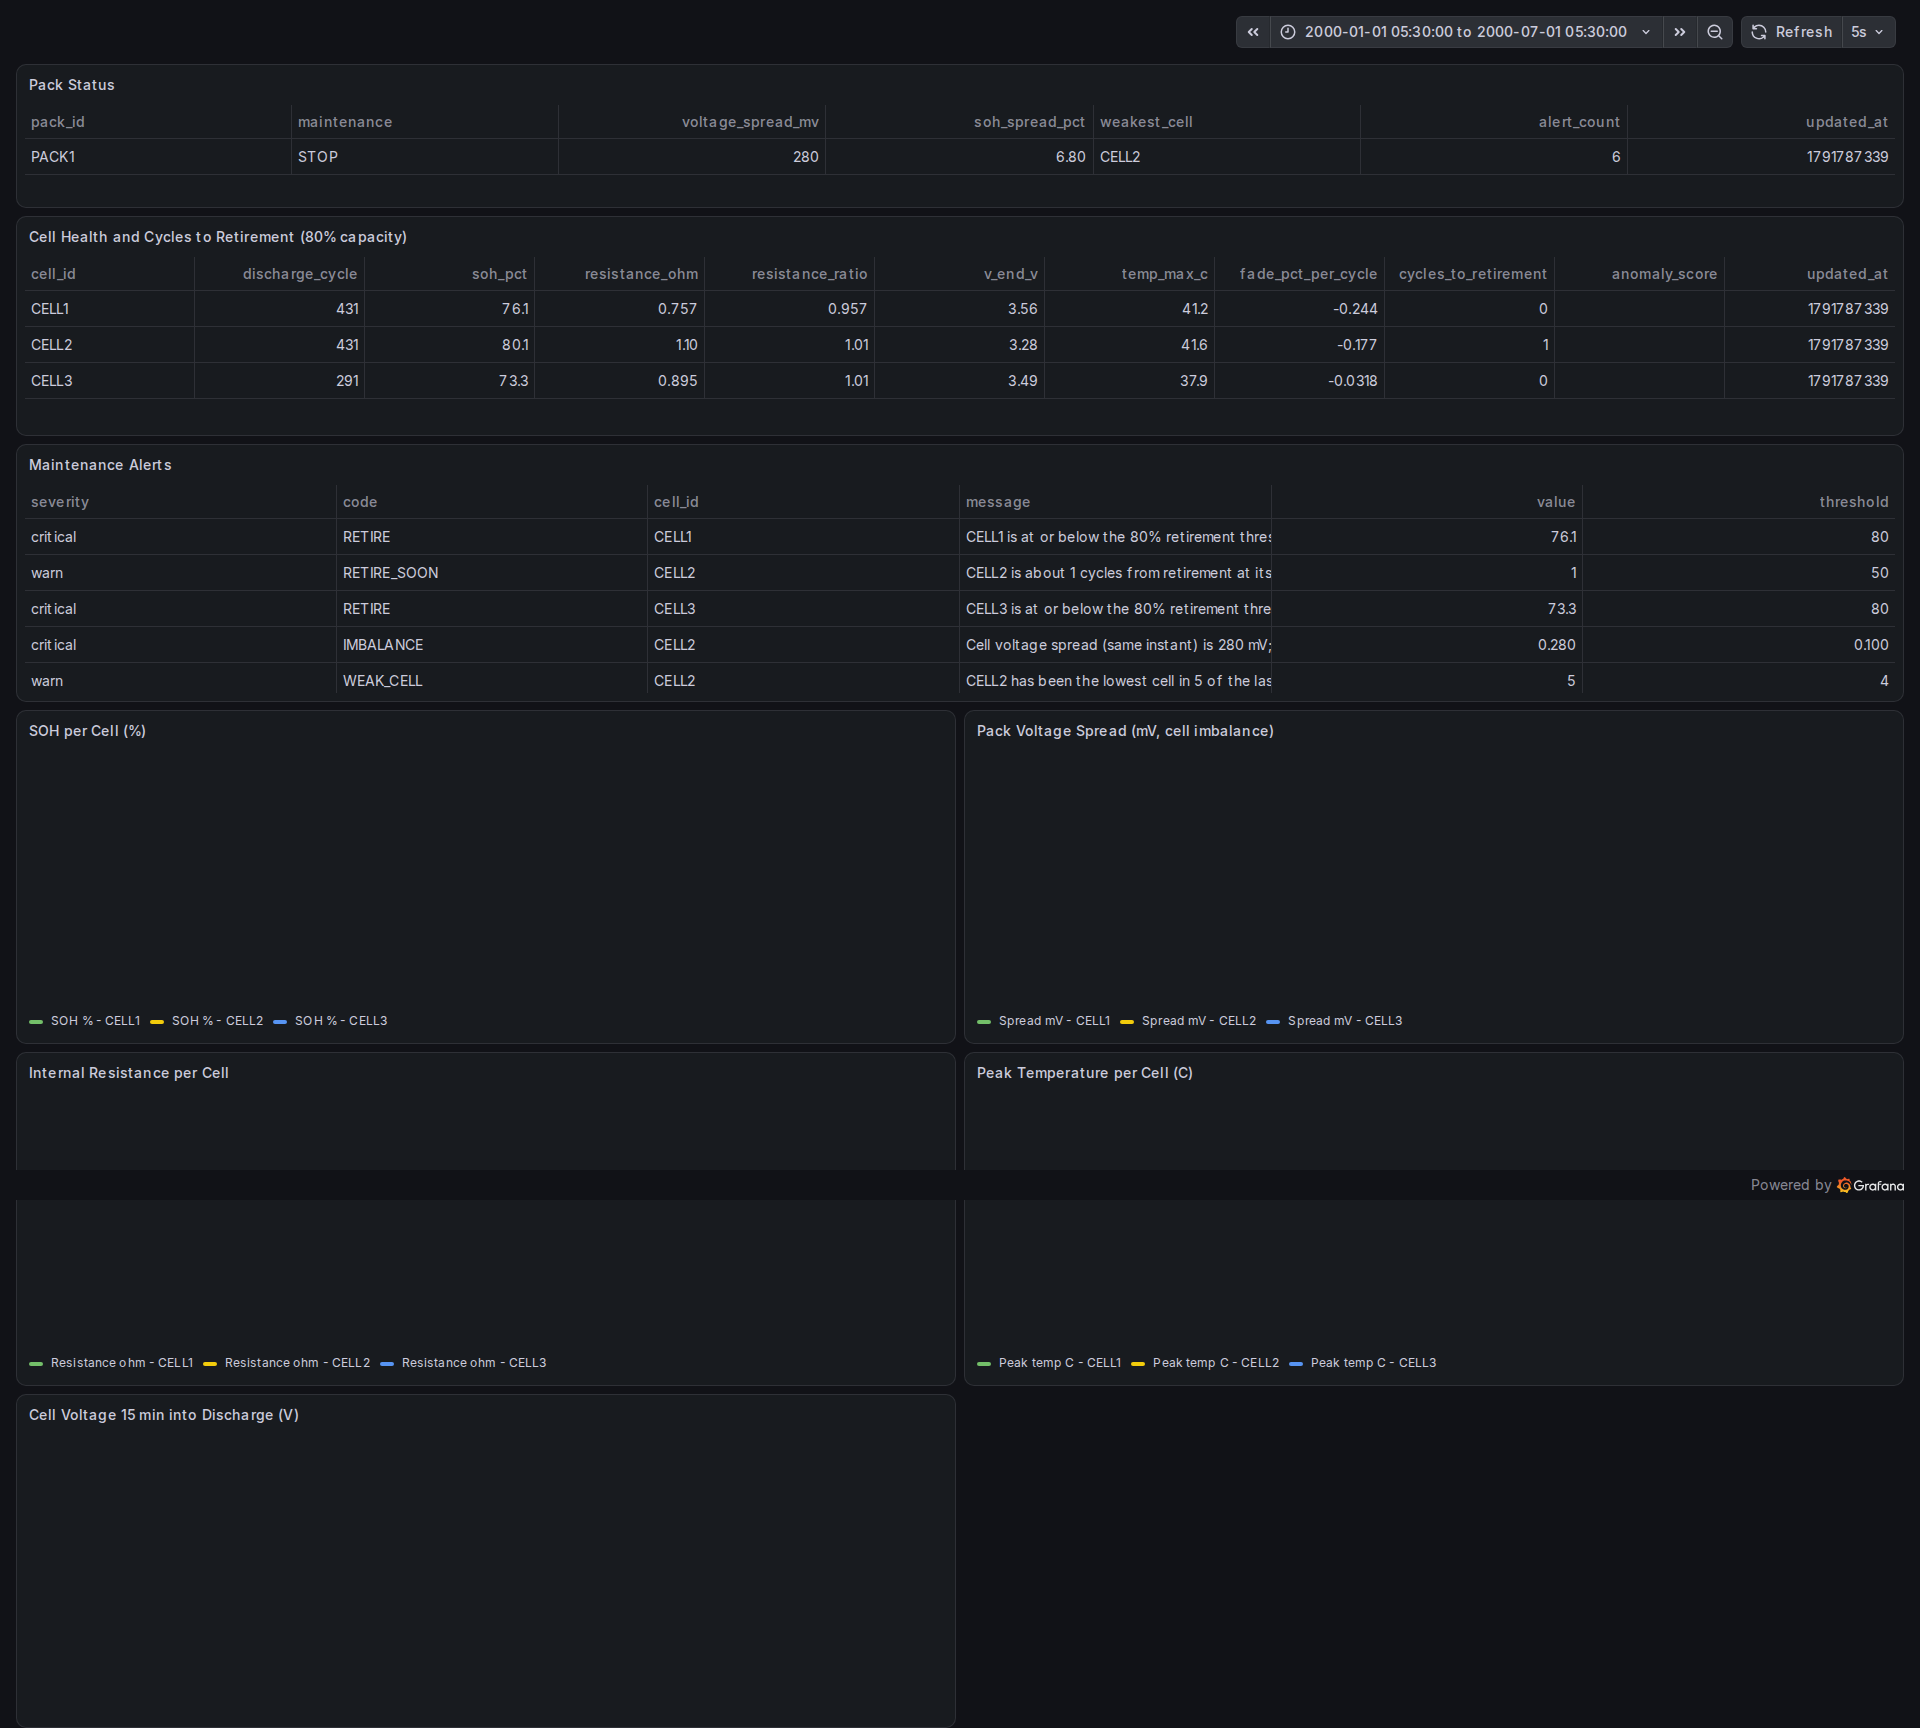
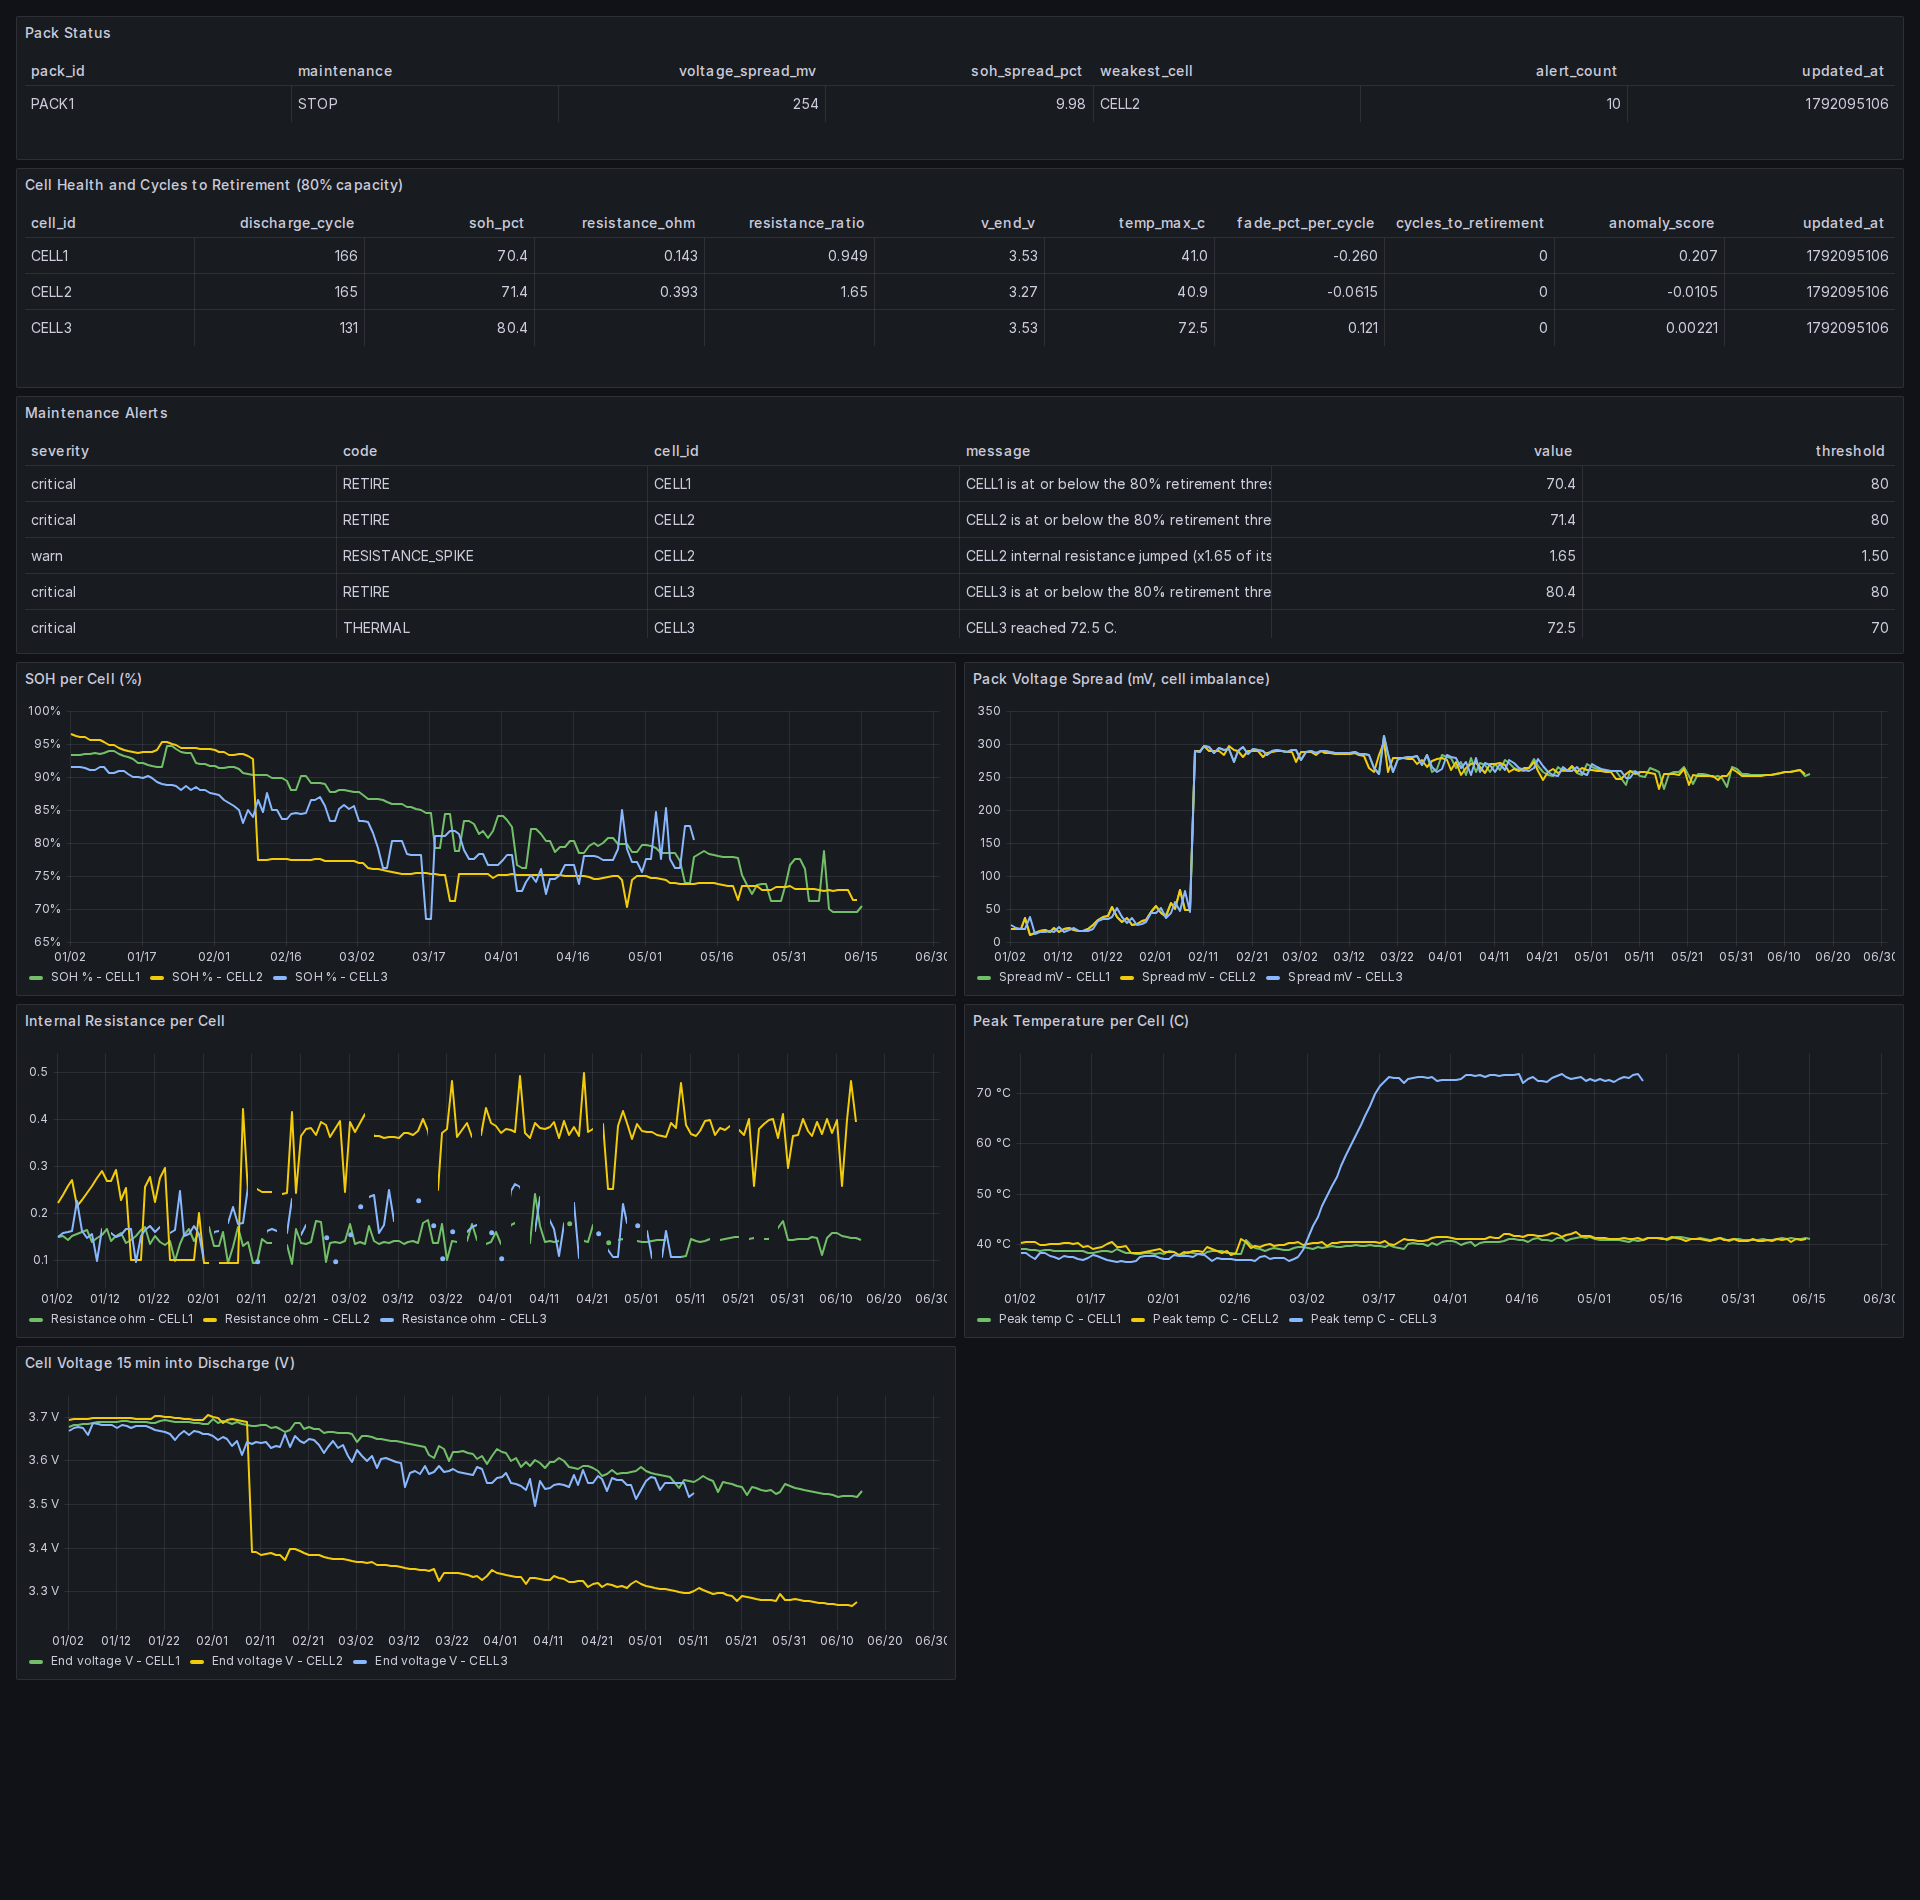
Measure RUL band coverage and run the dashboard under Docker
- rul_trajectory: evaluate_loco now records the empirical coverage and
  mean width of the 10th/90th band; report the honest 48.3% coverage
  (vs the ~80% the label implies) in the RUL table.
- docker-compose: set container dns so Grafana can fetch its JSON
  datasource plugin; stack now starts (all six containers up).
- refresh docs/ dashboard screenshots from the running stack.

diff --git a/scripts/make_report.py b/scripts/make_report.py
@@ -228,8 +228,11 @@ def build_results(clean, audit, soh_res, soh_nested, soh_base, soh_null,
 
 def build_rul(rul):
     lines = []
-    lines.append("| Held-out cell | EOL discharge | Trajectory MAE | Fleet-lifetime baseline MAE |")
-    lines.append("|---|---|---|---|")
+    lines.append(
+        "| Held-out cell | EOL discharge | Trajectory MAE | "
+        "Fleet-lifetime baseline MAE | 10th-90th coverage | Mean band width |"
+    )
+    lines.append("|---|---|---|---|---|---|")
     for _, row in rul.sort_values("test_cell").iterrows():
         record("RUL", "trajectory", f"held-out {row['test_cell']}",
                "MAE", row["trajectory_mae"], "discharges", REQUIRED["rul_trajectory"])
@@ -239,19 +242,35 @@ def build_rul(rul):
         record("RUL", "EOL", f"held-out {row['test_cell']}",
                "EOL discharge", row["eol_discharge"], "discharges",
                REQUIRED["rul_trajectory"])
+        record("RUL", "band coverage", f"held-out {row['test_cell']}",
+               "10th-90th coverage", row["band_coverage_pct"], "percent",
+               REQUIRED["rul_trajectory"])
+        record("RUL", "band width", f"held-out {row['test_cell']}",
+               "mean band width", row["band_width_mean"], "discharges",
+               REQUIRED["rul_trajectory"])
         lines.append(
             f"| {row['test_cell']} | {int(row['eol_discharge'])} | "
-            f"{fmt(row['trajectory_mae'], 1)} | {fmt(row['fleet_lifetime_baseline_mae'], 1)} |"
+            f"{fmt(row['trajectory_mae'], 1)} | "
+            f"{fmt(row['fleet_lifetime_baseline_mae'], 1)} | "
+            f"{fmt(row['band_coverage_pct'], 1)}% | "
+            f"{fmt(row['band_width_mean'], 1)} |"
         )
 
     traj_mean = mean(rul["trajectory_mae"])
     base_mean = mean(rul["fleet_lifetime_baseline_mae"])
+    cov_mean = mean(rul["band_coverage_pct"])
+    width_mean = mean(rul["band_width_mean"])
     record("RUL", "trajectory", "mean (G1)", "mean MAE", traj_mean,
            "discharges", REQUIRED["rul_trajectory"])
     record("RUL", "fleet lifetime baseline", "mean (G1)", "mean MAE", base_mean,
            "discharges", REQUIRED["rul_trajectory"])
+    record("RUL", "band coverage", "mean (G1)", "mean coverage",
+           cov_mean, "percent", REQUIRED["rul_trajectory"])
+    record("RUL", "band width", "mean (G1)", "mean band width",
+           width_mean, "discharges", REQUIRED["rul_trajectory"])
     lines.append(
-        f"| **Mean** | — | {fmt(traj_mean, 1)} | {fmt(base_mean, 1)} |"
+        f"| **Mean** | — | {fmt(traj_mean, 1)} | {fmt(base_mean, 1)} | "
+        f"{fmt(cov_mean, 1)}% | {fmt(width_mean, 1)} |"
     )
     return "\n".join(lines)
 

diff --git a/src/rul_trajectory.py b/src/rul_trajectory.py
@@ -219,11 +219,21 @@ def evaluate_loco(df, preds, threshold=THRESHOLD, start=10, cells=None):
         lifetimes = [r["eol"] for r in est.refs.values()]
 
         err_t, err_f = [], []
+        inside, widths = 0, []
 
         for k in range(start, eol):
 
             truth = eol - k
-            e = est.remaining(pred[: k + 1])
+
+            dist = est.remaining_distribution(pred[: k + 1])
+
+            # Same point estimate TrajectoryRul.remaining() returns, so
+            # the reported MAE is untouched by the coverage bookkeeping.
+            e = (
+                None
+                if dist is None
+                else int(round(float(np.median(dist))))
+            )
             f = max(np.median(lifetimes) - k, 0)
 
             if e is None:
@@ -233,14 +243,33 @@ def evaluate_loco(df, preds, threshold=THRESHOLD, start=10, cells=None):
             err_t.append(abs(e - truth))
             err_f.append(abs(f - truth))
 
+            # Empirical coverage of the 10th/90th band against the
+            # real remaining life: does the interval that ships on
+            # the dashboard actually contain the truth?
+            p10, p90 = np.percentile(dist, [10.0, 90.0])
+
+            widths.append(p90 - p10)
+
+            if p10 <= truth <= p90:
+
+                inside += 1
+
+        n = len(err_t)
+
         out.append(
             {
                 "test_cell": t,
                 "eol_discharge": eol,
-                "n_points": len(err_t),
+                "n_points": n,
                 "trajectory_mae": float(np.mean(err_t)),
                 "fleet_lifetime_baseline_mae": float(
                     np.mean(err_f)
+                ),
+                "band_coverage_pct": (
+                    100.0 * float(inside) / n if n else float("nan")
+                ),
+                "band_width_mean": (
+                    float(np.mean(widths)) if widths else float("nan")
                 ),
             }
         )

diff --git a/CHANGES.md b/CHANGES.md
@@ -74,6 +74,14 @@
   leave-one-cell-out protocol the reported MAE is measured under. The
   dashboard plots these percentiles instead of `predicted_rul * 0.8` and
   `predicted_rul * 1.2`, which were a fixed ±20% fake.
+- Measured that band's empirical coverage rather than assuming it. The
+  spread across reference-cell curves is not a calibrated predictive
+  interval: across the four held-out cells and their in-service
+  discharges the 10th/90th band contains the real remaining life only
+  48.3% of the time, not the ~80% a "10th-90th" label implies
+  (B0005 93.8%, B0006 0.0%, B0007 17.5%, B0018 82.1%), while being
+  ~21.6 discharges wide on average. It is a reference-spread band and
+  is labelled as such, not a guarantee.
 - `model_summary` is now computed from the result CSVs: held-out SOH MAE
   with its per-cell range, held-out R², the Coulomb baseline, the RUL MAE
   with its per-cell range and the fleet-lifetime baseline, the discharge
@@ -108,6 +116,26 @@
 
 - README results tables are regenerated from CSVs by
   `scripts/make_report.py`. Stale hand-typed numbers were removed.
+
+## Step 8 — Dashboard run under Docker
+
+- `docker compose --profile demo up --build` was run against the full
+  stack (Mosquitto, three SOH services, the pack bridge, the JSON API
+  and Grafana). All six containers reach a running state and Grafana
+  serves both provisioned dashboards at `http://localhost:3050`.
+- The compose file now sets an explicit container `dns`. Without it the
+  Docker embedded resolver forwards to the host's systemd-resolved stub
+  (`127.0.0.53`), which is unreachable from a container, so Grafana
+  exited on first boot with "connection refused" while fetching its
+  JSON-datasource plugin.
+- Verified end to end: Grafana's JSON datasource proxies to the API
+  (`/api/datasources/proxy/1/` returns `OK`), and the panels read real
+  database values through it — Model Summary SOH MAE 2.65%, R² 0.90,
+  Coulomb 0.73%, RUL MAE 20.5 discharges; `stat_discharges_left` 10.8
+  (10th-90th 7.0-14.1); `stat_latest_soh` 71.38; the per-cell SOH and
+  RUL panels render for every audited cell. Refreshed screenshots of
+  both dashboards are in `docs/battery_pdm_dashboard.png` and
+  `docs/battery_pack_live.png`.
 
 ---
 
@@ -1504,13 +1532,18 @@ verify.sh: ALL CHECKS PASSED
 
 ## NOT DONE / NOT VERIFIED
 
-1. Docker (`docker compose up`, dashboard screenshots, alert replay)
-   was not run in this environment. The Grafana JSON adapter is covered
-   by tests that run against the built database, but the rendered UI was
-   not screenshotted.
+1. The native systemd-user deployment (`battery-pdm-api` /
+   `battery-pdm-grafana`) and the Docker stack both bind ports 8099 and
+   3050, so only one can run at a time. Docker was used for the run
+   above; the systemd units are the lighter alternative.
 2. The RUL 10th–90th band is the spread of the per-reference-cell
-   estimates, not a calibrated interval; its empirical coverage
-   (fraction of true RUL values that fall inside the band) is not
-   measured, and no coverage figure is claimed.
+   estimates, not a calibrated interval. Its empirical coverage is now
+   measured (48.3% across the four held-out cells, against the ~80% its
+   label implies) and reported, but the band has not been recalibrated
+   to hit a target coverage.
 3. The online double-exponential fit was not re-validated; where it
    cannot be backed by a CSV it is marked legacy rather than reported.
+4. Grafana alert rules are provisioned
+   (`docker/grafana/provisioning/alerting/alert_rules.yml`) but were not
+   observed firing: the demo publisher injects synthetic faults into the
+   live topic, and no alert notification was captured end to end.

diff --git a/README.md b/README.md
@@ -82,13 +82,13 @@ Numbers in this section are produced by committed scripts and saved to CSVs unde
 ### RUL Prediction (Remaining Useful Life)
 
 <!-- make_report:rul -->
-| Held-out cell | EOL discharge | Trajectory MAE | Fleet-lifetime baseline MAE |
-|---|---|---|---|
-| B0005 | 106 | 7.1 | 24.8 |
-| B0006 | 60 | 51.1 | 46.0 |
-| B0007 | 124 | 17.5 | 37.5 |
-| B0018 | 77 | 6.5 | 29.0 |
-| **Mean** | — | 20.5 | 34.3 |
+| Held-out cell | EOL discharge | Trajectory MAE | Fleet-lifetime baseline MAE | 10th-90th coverage | Mean band width |
+|---|---|---|---|---|---|
+| B0005 | 106 | 7.1 | 24.8 | 93.8% | 25.8 |
+| B0006 | 60 | 51.1 | 46.0 | 0.0% | 25.5 |
+| B0007 | 124 | 17.5 | 37.5 | 17.5% | 14.6 |
+| B0018 | 77 | 6.5 | 29.0 | 82.1% | 20.3 |
+| **Mean** | — | 20.5 | 34.3 | 48.3% | 21.6 |
 <!-- make_report:rul:end -->
 
 > **Unit:** All RUL targets and predictions are measured in **sequential discharges** (`discharge_index`), not raw interleaved cycle numbers.
